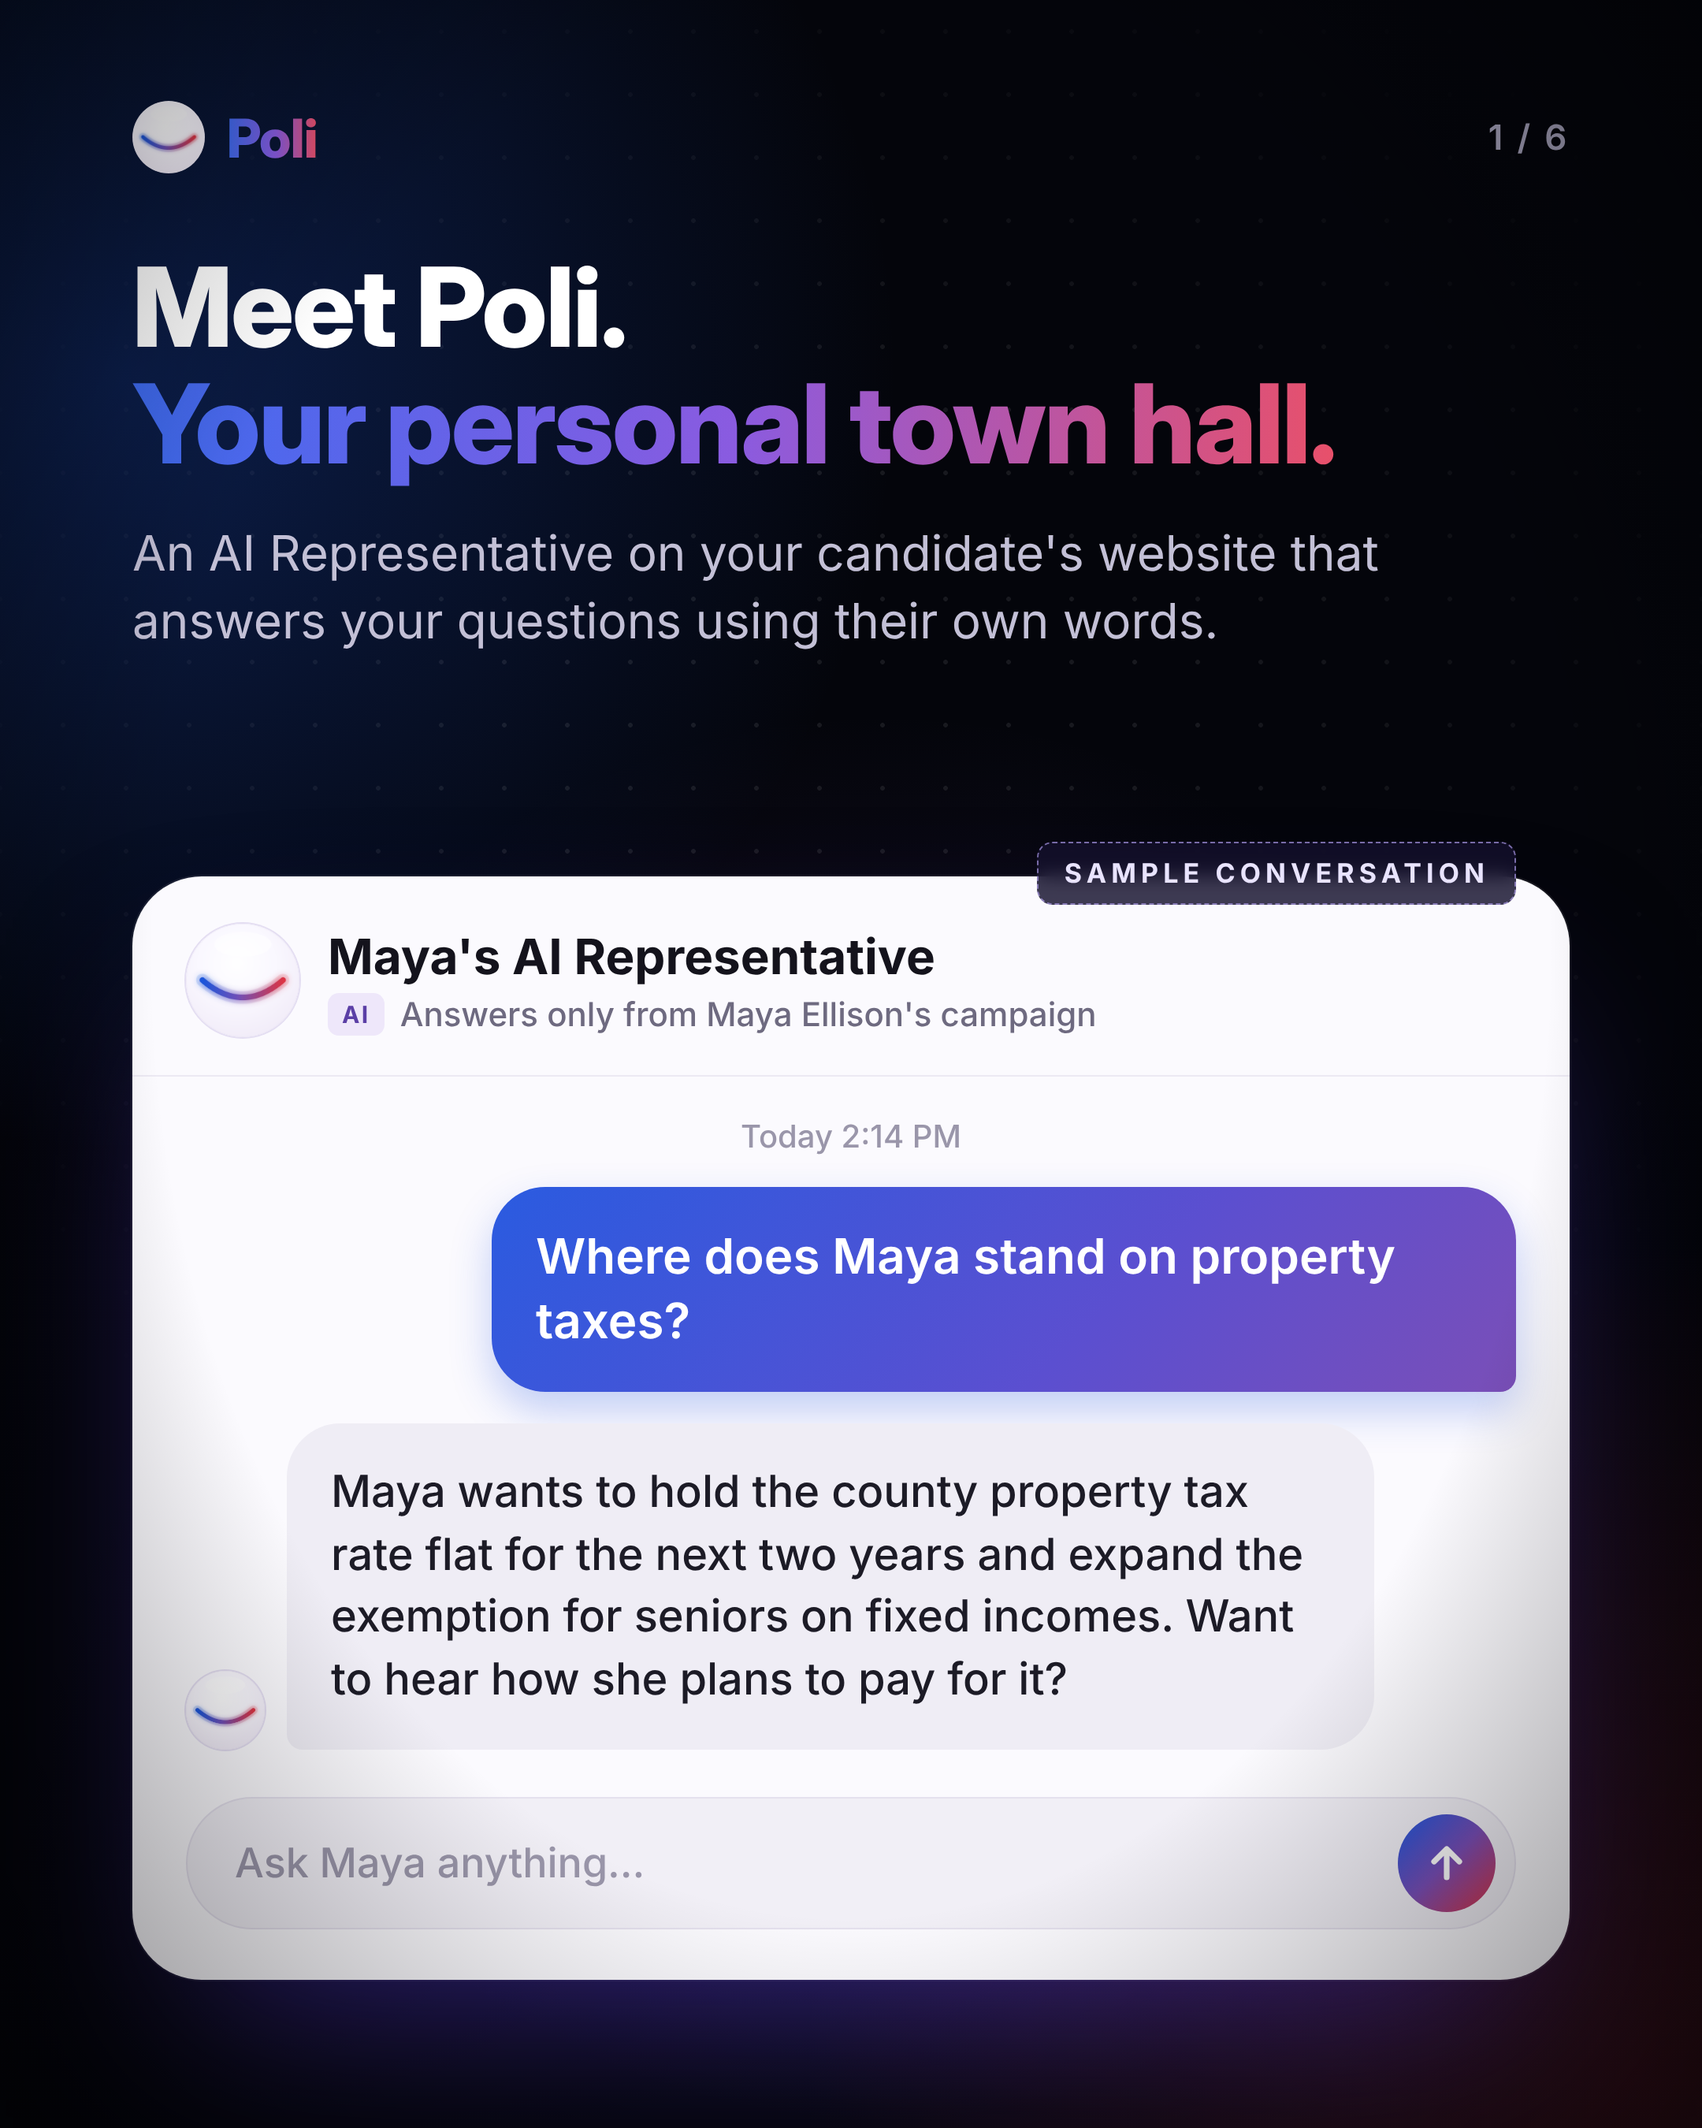
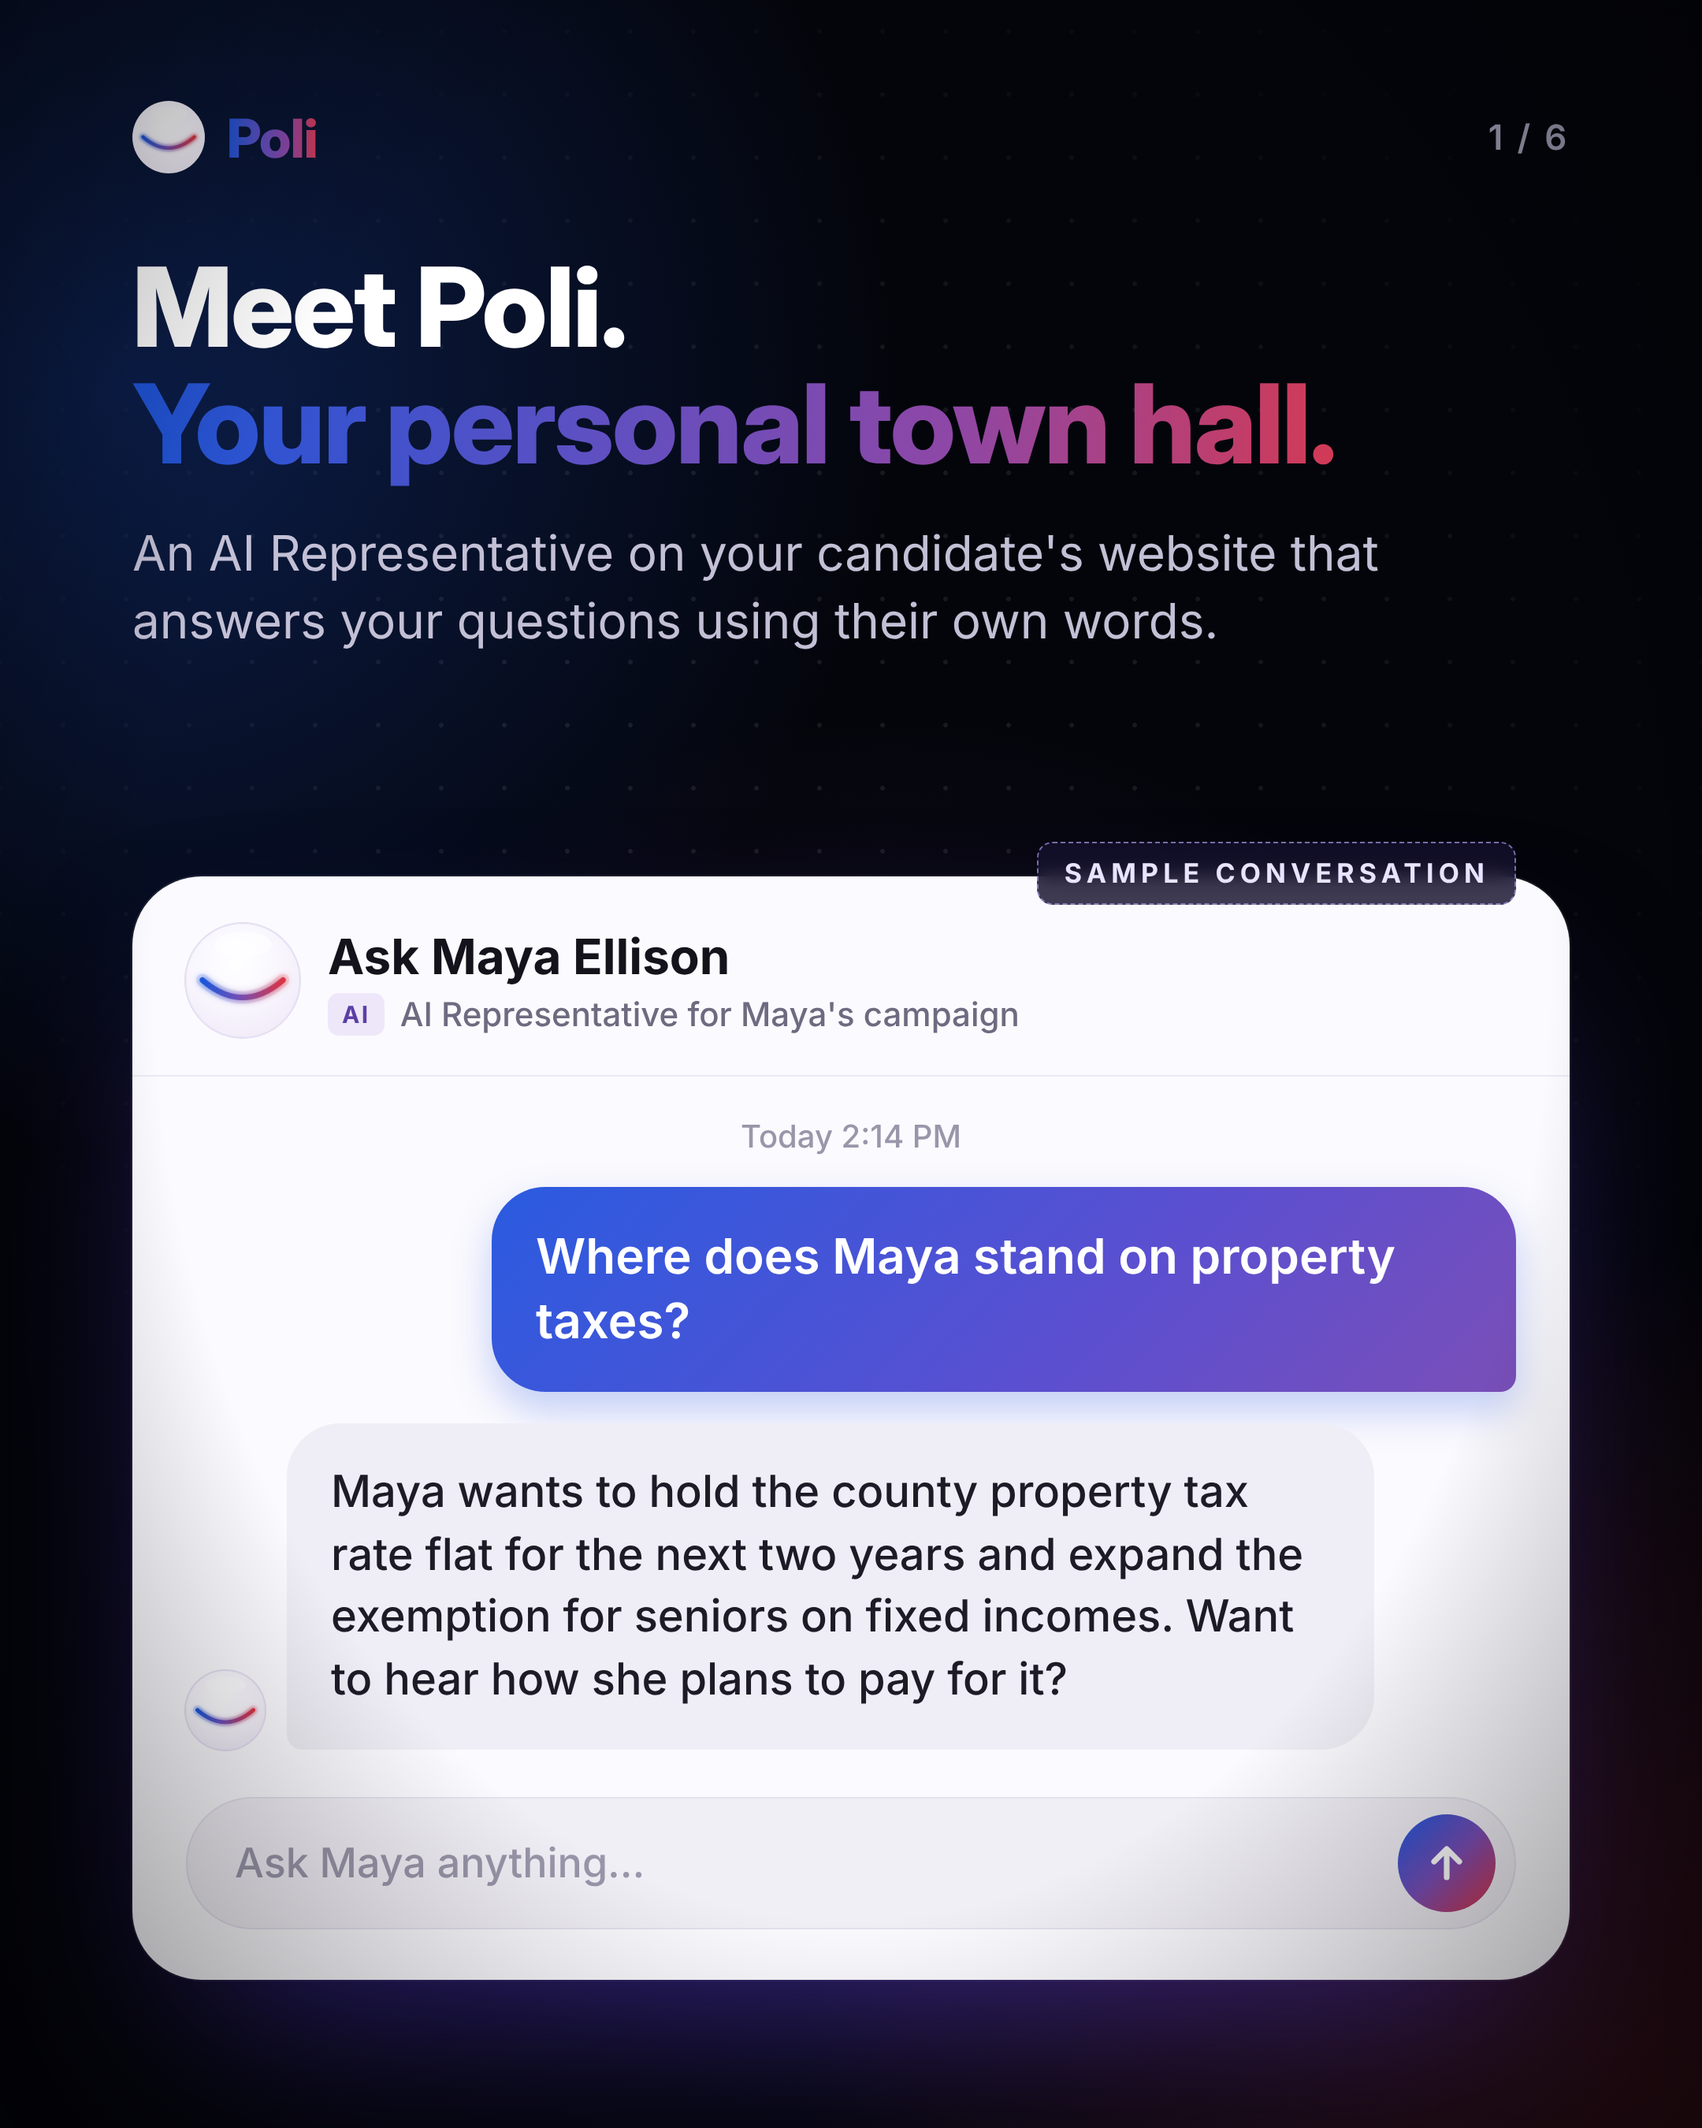
Brand pass: exact wordmark gradient, 'Askpoli.us' casing, unified 'Ask [Candidate]' chat headers
Claude-Session: https://claude.ai/code/session_01SShT3dbSYkGvjEDFvWeJak

Changed region(s): [[0.1861, 0.4356, 0.6514, 0.4978], [0.0931, 0.1867, 0.7134, 0.2489], [0.1551, 0.0622, 0.1861, 0.0933]]

diff --git a/how-poli-works/source/slides.html b/how-poli-works/source/slides.html
@@ -31,11 +31,11 @@
   .top { position: absolute; top: 64px; left: 84px; right: 84px; display: flex; justify-content: space-between; align-items: center; }
   .brand { display: flex; align-items: center; gap: 14px; font: 800 34px 'InterDisplay'; letter-spacing: -0.01em; }
   .brand img { width: 46px; height: 46px; border-radius: 50%; }
-  .brand b { background: linear-gradient(90deg, #3E6BF0, #8A5BE0 55%, #E8506A); -webkit-background-clip: text; background-clip: text; color: transparent; }
+  .brand b { background: linear-gradient(90deg, #1E55D8 0%, #5E50C2 38%, #8E47A6 68%, #D23A55 100%); -webkit-background-clip: text; background-clip: text; color: transparent; }
   .page { font: 600 22px 'Inter'; color: #9C99B0; letter-spacing: 0.08em; }
 
   h1 { position: absolute; top: 158px; left: 84px; right: 84px; font: 800 70px/1.06 'InterDisplay'; letter-spacing: -0.015em; }
-  h1 em { font-style: normal; background: linear-gradient(90deg, #3E6BF0 0%, #8A5BE0 50%, #E8506A 100%); -webkit-background-clip: text; background-clip: text; color: transparent; }
+  h1 em { font-style: normal; background: linear-gradient(90deg, #1E55D8 0%, #5E50C2 38%, #8E47A6 68%, #D23A55 100%); -webkit-background-clip: text; background-clip: text; color: transparent; }
   .sub { position: absolute; left: 84px; right: 120px; font: 400 31px/1.38 'Inter'; color: #C3C0D6; }
 
   /* ---------- chat mockup ---------- */
@@ -83,7 +83,7 @@
   .step .q { display: inline-block; margin-top: 12px; font: 600 23px 'Inter'; color: #fff; padding: 10px 18px; border-radius: 22px 22px 6px 22px; background: linear-gradient(135deg, #2A5BE0, #7A4FB8); }
   .mini { display: flex; gap: 10px; align-items: flex-end; margin-top: 14px; height: 54px; }
   .mini i { width: 34px; border-radius: 8px 8px 4px 4px; background: rgba(255,255,255,0.16); }
-  .mini i.hot { background: linear-gradient(180deg, #E8506A, #B2407F); box-shadow: 0 0 20px rgba(232,80,106,0.5); }
+  .mini i.hot { background: linear-gradient(180deg, #D23A55, #8E47A6); box-shadow: 0 0 20px rgba(210,58,85,0.55); }
   svg.link { position: absolute; left: 84px; top: 480px; width: 912px; height: 850px; pointer-events: none; }
   .fine { position: absolute; left: 84px; right: 84px; bottom: 64px; font: 500 22px/1.4 'Inter'; color: #8F8CA3; }
 
@@ -107,15 +107,15 @@ const ORB = 'poli-orb-hi.png';
 const SEND = '<svg width="28" height="28" viewBox="0 0 28 28" fill="none" stroke="#fff" stroke-width="3.6" stroke-linecap="round" stroke-linejoin="round"><path d="M14 23V6M6 13l8-8 8 8"/></svg>';
 const MOON = '<svg width="22" height="22" viewBox="0 0 24 24" style="vertical-align:-4px;margin-right:8px"><path d="M20 14.5A8 8 0 0 1 9.5 4 8 8 0 1 0 20 14.5z" fill="#B9A8F0"/></svg>';
 
-// One sample candidate across the carousel (fictional, like the demo on askpoli.us).
+// One sample candidate across the carousel (fictional, like the demo on Askpoli.us).
 const CAND = { name: 'Maya', full: 'Maya Ellison' };
 
 function chat({ top, time, q, a, night }) {
   return `
   <div class="stamp" style="right:118px; top:${top - 22}px">SAMPLE CONVERSATION</div>
   <div class="chat" style="top:${top}px">
-    <div class="head"><img src="${ORB}"><div><h3>${CAND.name}'s AI Representative</h3>
-      <p><span class="badge">AI</span>Answers only from ${CAND.full}'s campaign</p></div></div>
+    <div class="head"><img src="${ORB}"><div><h3>Ask ${CAND.full}</h3>
+      <p><span class="badge">AI</span>AI Representative for ${CAND.name}'s campaign</p></div></div>
     <div class="body">
       <div class="ts">${night ? MOON : ''}${time}</div>
       <div class="me">${q}</div>
@@ -154,7 +154,7 @@ const SLIDES = {
   5: () => head(5) + `
     <h1>Your questions<br><em>shape the campaign.</em></h1>
     <div class="sub" style="top:330px">The campaign sees what voters ask, so they learn what matters most.</div>
-    <svg class="link" viewBox="0 0 912 850"><defs><linearGradient id="lk" x1="0" y1="0" x2="0" y2="1"><stop offset="0" stop-color="#3E6BF0"/><stop offset=".5" stop-color="#8A5BE0"/><stop offset="1" stop-color="#E8506A"/></linearGradient>
+    <svg class="link" viewBox="0 0 912 850"><defs><linearGradient id="lk" x1="0" y1="0" x2="0" y2="1"><stop offset="0" stop-color="#1E55D8"/><stop offset=".38" stop-color="#5E50C2"/><stop offset=".68" stop-color="#8E47A6"/><stop offset="1" stop-color="#D23A55"/></linearGradient>
       <filter id="gl" x="-50%" y="-10%" width="200%" height="120%"><feGaussianBlur stdDeviation="6"/></filter></defs>
       <path d="M100 210 V 286 M100 476 V 552" stroke="url(#lk)" stroke-width="10" stroke-linecap="round" filter="url(#gl)" opacity=".8"/>
       <path d="M100 210 V 286 M100 476 V 552" stroke="url(#lk)" stroke-width="4" stroke-linecap="round"/></svg>
@@ -180,9 +180,9 @@ const SLIDES = {
           <circle cx="459" cy="200" r="6" fill="#fff"/></svg>
         <img src="${ORB}"></div>
       <div class="word">Poli</div>
-      <div class="url">askpoli.us</div>
+      <div class="url">Askpoli.us</div>
     </div>
-    <div class="push">Candidate not on Poli yet? <b>Ask them to join at askpoli.us</b></div>`,
+    <div class="push">Candidate not on Poli yet? <b>Ask them to join at Askpoli.us</b></div>`,
 };
 
 const n = Number(new URLSearchParams(location.search).get('n') || 1);

diff --git a/carousel/source/post.html b/carousel/source/post.html
@@ -55,7 +55,7 @@
   .chathead .av { width: 56px; height: 56px; border-radius: 50%; overflow: hidden; box-shadow: 0 0 0 1px #E1DAF2; }
   .chathead .av img { width: 100%; height: 100%; display: block; }
   .chathead h3 { font: 700 27px 'Inter'; color: var(--ink); }
-  .chathead p { font: 500 18px 'Inter'; color: var(--muted); display: flex; align-items: center; gap: 8px; margin-top: 3px; }
+  .chathead p { font: 500 16px 'Inter'; color: var(--muted); display: flex; align-items: center; gap: 7px; margin-top: 3px; white-space: nowrap; }
   .chathead p em { font-style: normal; font: 700 13px 'Inter'; color: #5B3FA6; background: #EEE7FA; padding: 3px 8px; border-radius: 6px; letter-spacing: 0.06em; }
   .ts { text-align: center; font: 500 17px 'Inter'; color: #9A96AA; margin: 20px 0 14px; }
   #ask { position: relative; z-index: 3; margin-left: auto; width: 360px; padding: 22px 26px; border-radius: 30px 30px 8px 30px;
@@ -132,7 +132,7 @@
         </div>
         <div class="site"><div><b>ALEX RIVERA</b><small>FOR CITY COUNCIL</small></div><div class="donate">DONATE</div></div>
         <div class="chat">
-          <div class="chathead"><div class="av"><img src="poli-orb.png"></div><div><h3>Ask Alex Rivera</h3><p><em>AI</em>Answers from Alex's campaign</p></div></div>
+          <div class="chathead"><div class="av"><img src="poli-orb.png"></div><div><h3>Ask Alex Rivera</h3><p><em>AI</em>AI Representative for Alex's campaign</p></div></div>
           <div class="ts">Today 11:47 PM</div>
           <div id="ask">What will you do about rent increases?</div>
           <div class="reply">Alex's housing plan has three parts: more homes near transit, a renter relief fund, and faster permits for affordable units.</div>

diff --git a/carousel/source/slide2.html b/carousel/source/slide2.html
@@ -33,7 +33,7 @@
 
   .eyebrow { position: absolute; top: 418px; left: 0; right: 0; text-align: center; font: 700 20px 'Inter'; letter-spacing: 0.22em; color: #B9A8F0; }
   h1 { position: absolute; top: 456px; left: 0; right: 0; text-align: center; font: 800 70px/1.08 'InterDisplay'; letter-spacing: -0.01em; }
-  h1 span { display: block; background: linear-gradient(90deg, #3E6BF0 0%, #8A5BE0 50%, #E8506A 100%); -webkit-background-clip: text; background-clip: text; color: transparent; }
+  h1 span { display: block; background: linear-gradient(90deg, #1E55D8 0%, #5E50C2 38%, #8E47A6 68%, #D23A55 100%); -webkit-background-clip: text; background-clip: text; color: transparent; }
 
   .rows { position: absolute; top: 688px; left: 110px; right: 110px; display: flex; flex-direction: column; gap: 34px; }
   .row { display: flex; gap: 26px; align-items: flex-start; }

diff --git a/how-poli-works/APPROVAL-DRAFT.md b/how-poli-works/APPROVAL-DRAFT.md
@@ -3,8 +3,9 @@
 Revised Oct 25, 2026. Nothing posts until "approved" is written on this exact copy.
 
 Decisions applied (from review):
+- Brand: headline gradients use the exact Poli wordmark colors (#1E55D8, #5E50C2, #8E47A6, #D23A55); the URL is written "Askpoli.us" everywhere, matching the video end card.
 - Path B: no claim that answers show sources. Uses "only uses what the candidate has shared" and "says I don't know instead of guessing."
-- Product name matches the site: "AI Representative" (mockups: "Maya's AI Representative").
+- Product name matches the site: "AI Representative". Chat headers follow the real widget: "Ask Maya Ellison" / "AI Representative for Maya's campaign".
 - Placement line matches the product: "Look for 'Ask [Candidate]' on your candidate's website."
 - The assistant talks about the candidate, never as the candidate (site promise: "Clearly an AI").
 - Privacy wording matches the site: the campaign sees voters' questions; personal information is never sold.
@@ -19,7 +20,7 @@ Files: `How-Poli-Works-1..6-2160x2700.png` (upload these; 1080x1350 copies inclu
 ## Slide 1
 **Title:** Meet Poli. Your personal town hall.
 **Subtitle:** An AI Representative on your candidate's website that answers your questions using their own words.
-**Mockup (SAMPLE CONVERSATION, "Maya's AI Representative"):**
+**Mockup (SAMPLE CONVERSATION, header "Ask Maya Ellison"):**
 - Voter: Where does Maya stand on property taxes?
 - AI: Maya wants to hold the county property tax rate flat for the next two years and expand the exemption for seniors on fixed incomes. Want to hear how she plans to pay for it?
 
@@ -53,8 +54,8 @@ Files: `How-Poli-Works-1..6-2160x2700.png` (upload these; 1080x1350 copies inclu
 ## Slide 6
 **Title:** Your personal town hall is open.
 **Subtitle:** Look for "Ask [Candidate]" on your candidate's website. Ask anything.
-**Visual:** Poli orb + wordmark + askpoli.us (no button look).
-**Footer:** Candidate not on Poli yet? Ask them to join at askpoli.us
+**Visual:** Poli orb + wordmark + Askpoli.us (no button look).
+**Footer:** Candidate not on Poli yet? Ask them to join at Askpoli.us
 
 ---
 
@@ -66,7 +67,7 @@ Poli is an AI Representative that lives on a candidate's own campaign website. A
 
 Your questions count. The campaign sees what voters are asking, so they learn what matters most to you. Please don't share sensitive personal details. Your personal information is never sold.
 
-Look for "Ask [Candidate]" on your candidate's website. Candidate not using Poli yet? Ask them to join at askpoli.us (link in bio).
+Look for "Ask [Candidate]" on your candidate's website. Candidate not using Poli yet? Ask them to join at Askpoli.us (link in bio).
 
 What would you ask first? 👇
 
@@ -76,12 +77,12 @@ What would you ask first? 👇
 
 ## Alt text (add per image in Instagram's Advanced settings)
 
-1. Slide titled "Meet Poli. Your personal town hall." A sample chat with Maya's AI Representative: a voter asks where Maya stands on property taxes, and the AI explains her plan to hold the rate flat and expand the senior exemption.
+1. Slide titled "Meet Poli. Your personal town hall." A sample chat with Maya Ellison's AI Representative: a voter asks where Maya stands on property taxes, and the AI explains her plan to hold the rate flat and expand the senior exemption.
 2. Slide titled "Ask anything, any hour." A sample late-night chat at 11:04 PM: a voter asks about school funding, and the AI cheerfully answers with Maya's position.
 3. Slide titled "Answers in the candidate's own words." A sample chat: a voter asks how Maya voted on the 2025 transit levy, and the AI answers plainly that she voted yes and why, per her campaign.
 4. Slide titled "If it doesn't know, it says so." A sample chat: a voter asks about the county fairgrounds, and the AI says it doesn't know yet because the campaign hasn't shared a plan, then offers related topics.
 5. Slide titled "Your questions shape the campaign." Three steps: you ask, Poli answers using only what the candidate has shared, and the campaign hears what matters. Fine print says not to share sensitive details and that personal information is never sold.
-6. Slide titled "Your personal town hall is open." The Poli logo and the website askpoli.us, with a note to look for "Ask [Candidate]" on a candidate's website.
+6. Slide titled "Your personal town hall is open." The Poli logo and the website Askpoli.us, with a note to look for "Ask [Candidate]" on a candidate's website.
 
 ---
 
